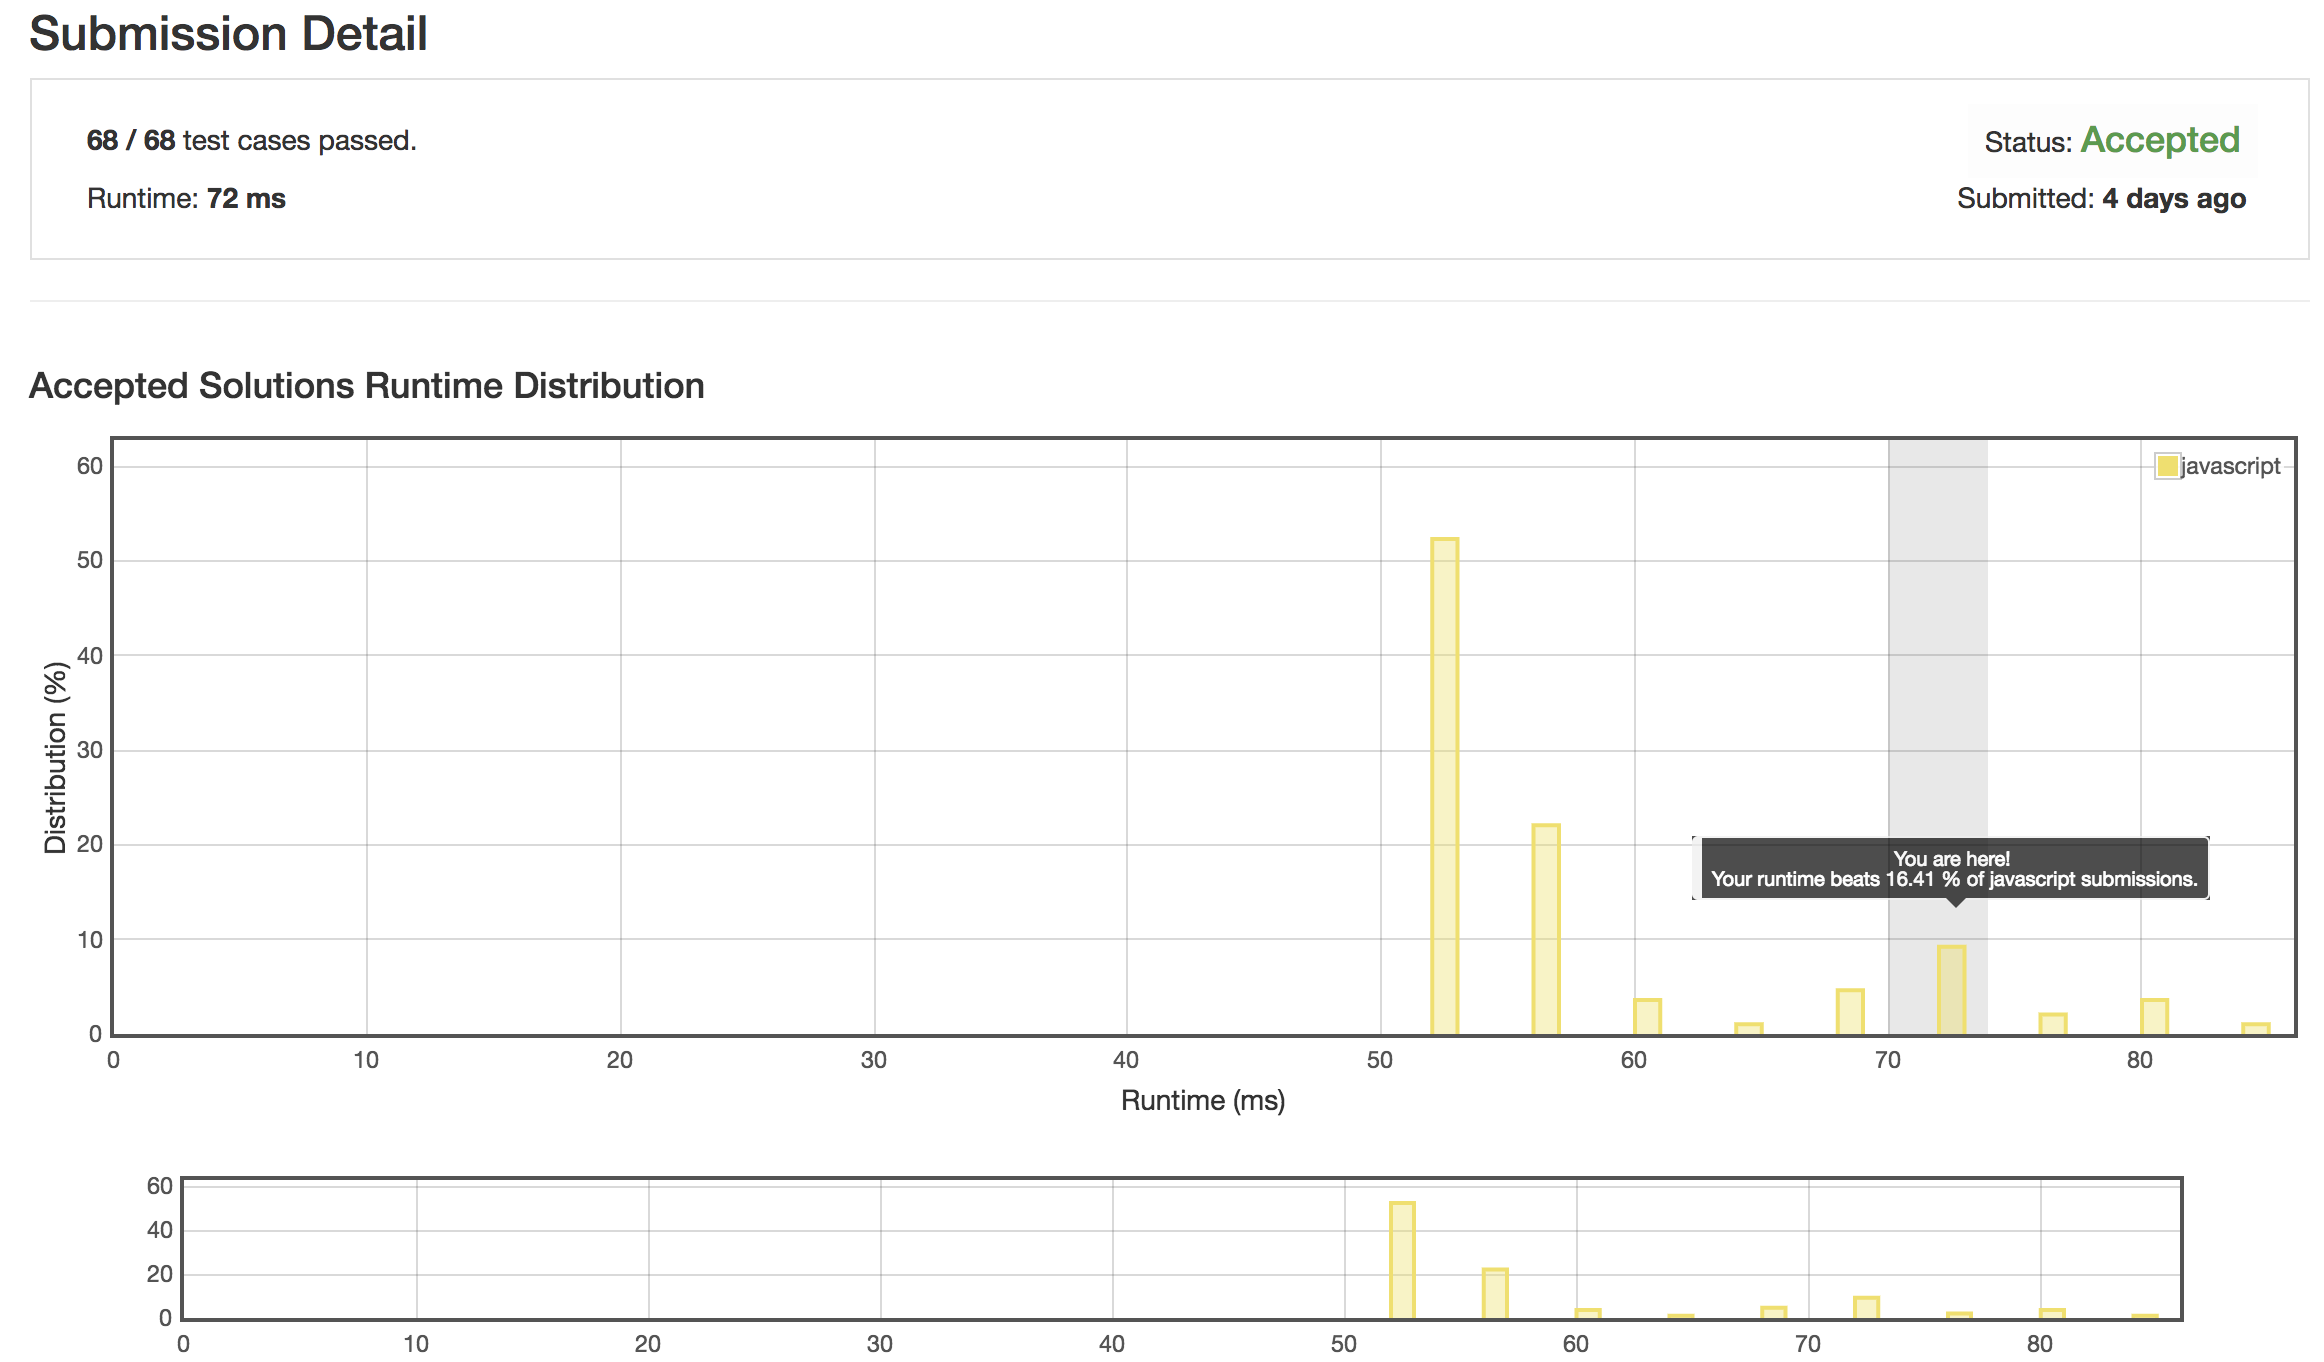
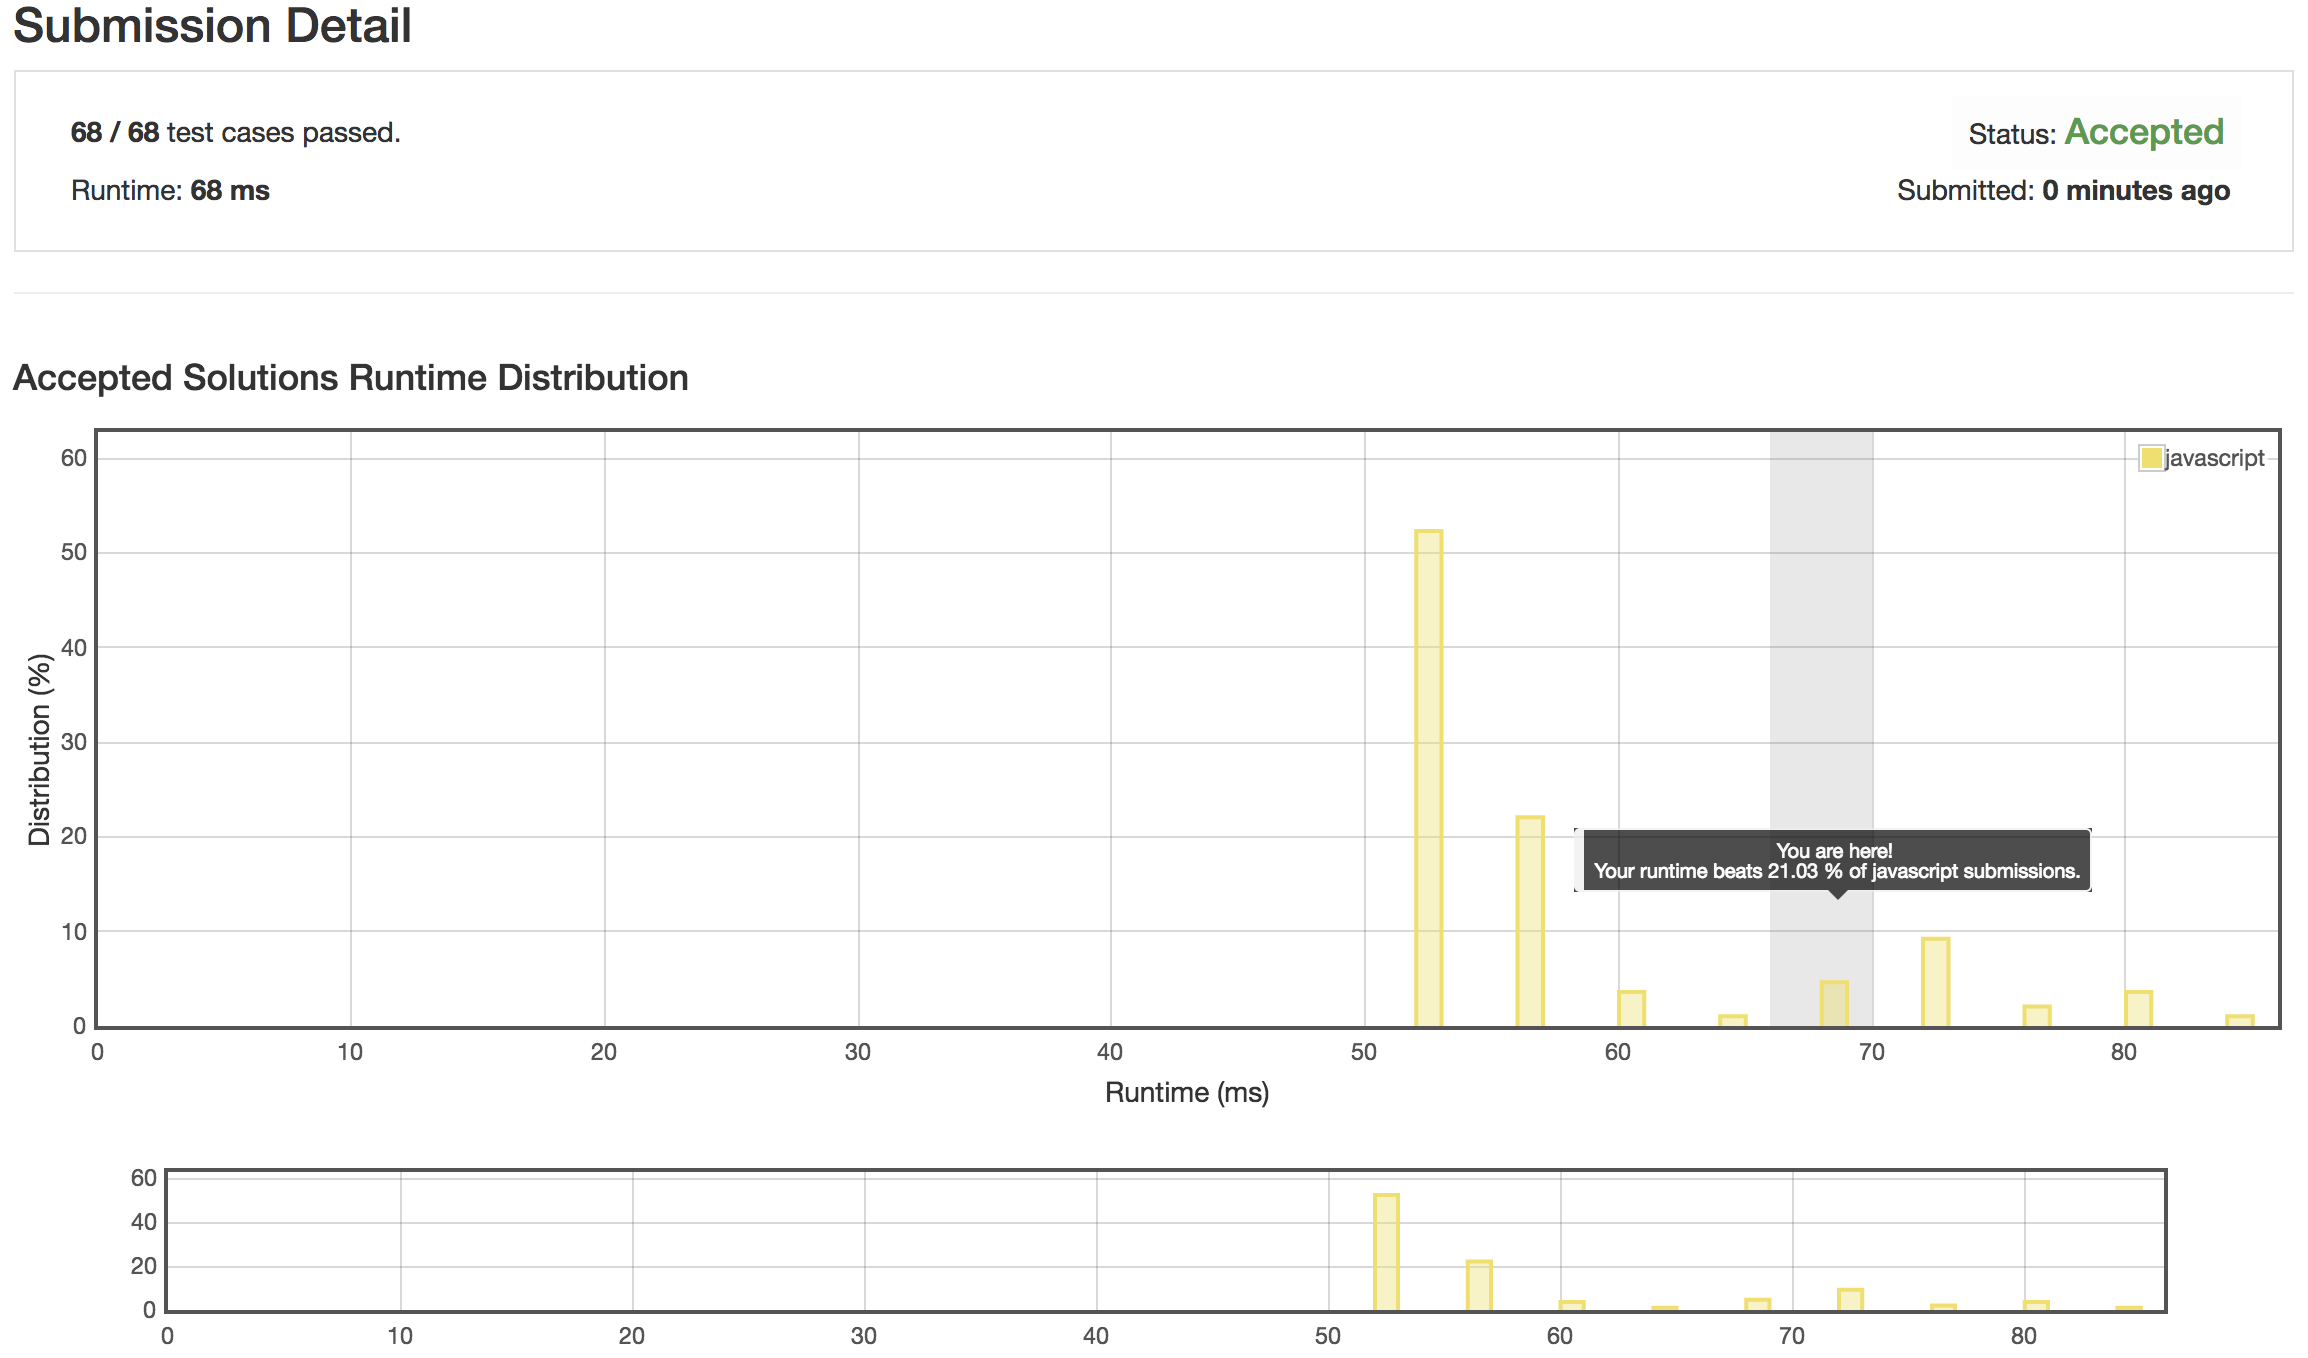
UPDATE binary tree inorder traversal result

diff --git a/README.md b/README.md
@@ -19,5 +19,5 @@ So far:
 | [House Robber III](medium/house-robber-iii) | Medium | 99.77% | 7th Jan 2019 |
 | [Letter Combinations of a Phone Number](medium/letter-combinations-of-a-phone-number) | Medium | 92.47% | 8th Jan 2019 |
 | [Validate Stack Sequences](medium/validate-stack-sequences) | Medium | 100% | 9th Jan 2019 |
-| [Binary Tree Inorder Traversal](medium/binary-tree-inorder-traversal) | Medium | 16.41% | 10th Jan 2019 |
+| [Binary Tree Inorder Traversal](medium/binary-tree-inorder-traversal) | Medium | 21.03% | 10th Jan 2019 |
 | [Sum Root to Leaf Numbers](medium/sum-root-to-leaf-numbers) | Medium | 16.67% | 14th Jan 2019 |
